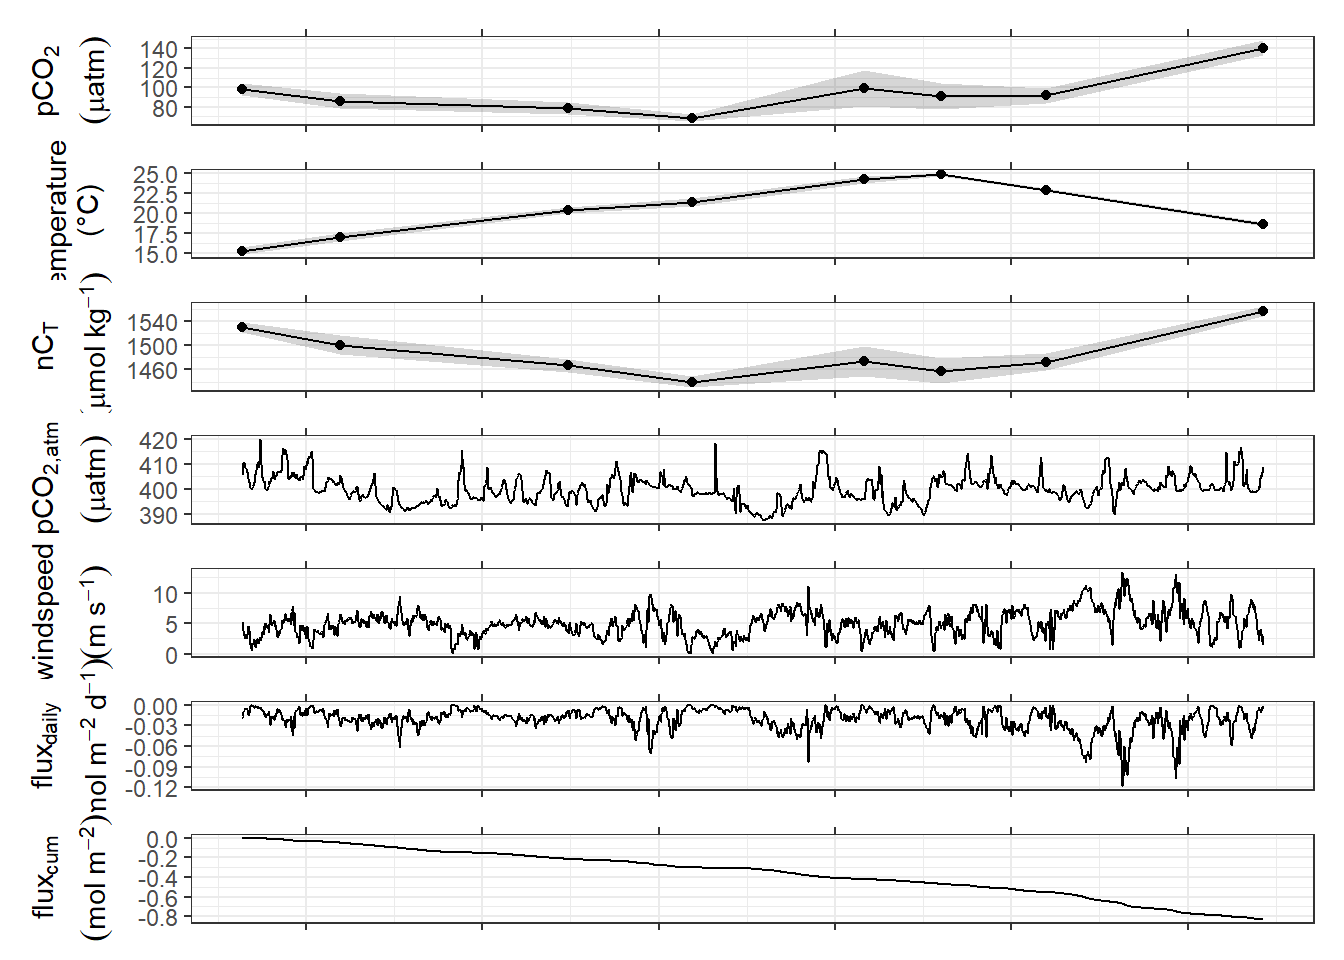
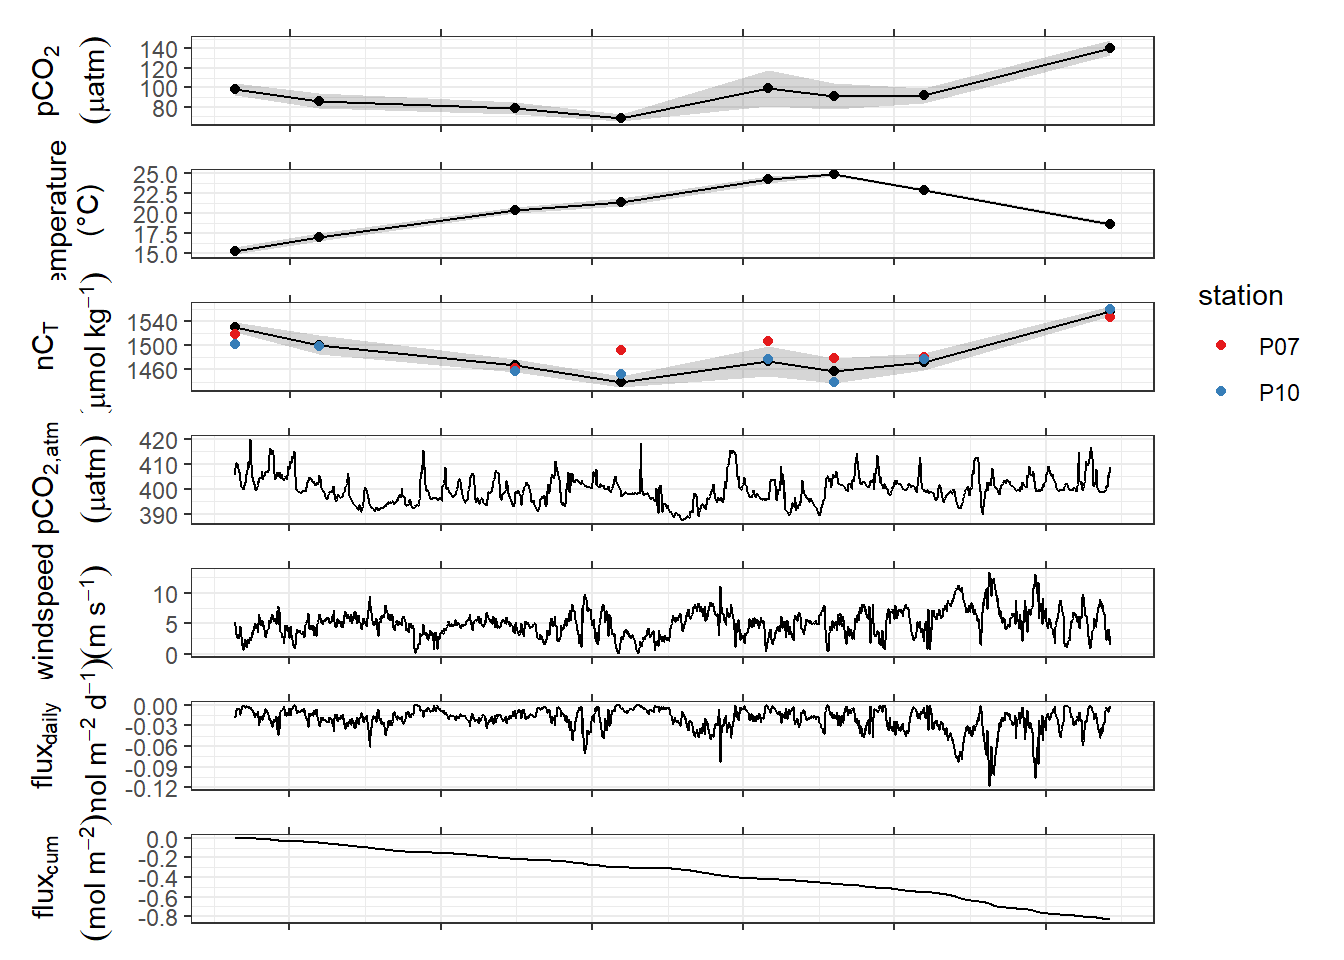
Build site.

diff --git a/docs/CT_dynamics.html b/docs/CT_dynamics.html
@@ -555,16 +555,16 @@ This reproducible <a href="http://rmarkdown.rstudio.com">R Markdown</a> analysis
 <div class="panel panel-default">
 <div class="panel-heading">
 <p class="panel-title">
-<a data-toggle="collapse" data-parent="#workflowr-checks" href="#strongRepositoryversionstrongahrefhttpsgithubcomjensdanielmuellerBloomSailtree72f9a8690b3f9e2ef20de96bc1fc2acbff171e5etargetblank72f9a86a"> <span class="glyphicon glyphicon-ok text-success" aria-hidden="true"></span> <strong>Repository version:</strong> <a href="https://github.com/jens-daniel-mueller/BloomSail/tree/72f9a8690b3f9e2ef20de96bc1fc2acbff171e5e" target="_blank">72f9a86</a> </a>
+<a data-toggle="collapse" data-parent="#workflowr-checks" href="#strongRepositoryversionstrongahrefhttpsgithubcomjensdanielmuellerBloomSailtreee07781a06c90b83d693e91ec008c72bbd1e6d5e0targetblanke07781aa"> <span class="glyphicon glyphicon-ok text-success" aria-hidden="true"></span> <strong>Repository version:</strong> <a href="https://github.com/jens-daniel-mueller/BloomSail/tree/e07781a06c90b83d693e91ec008c72bbd1e6d5e0" target="_blank">e07781a</a> </a>
 </p>
 </div>
[2 lines of base64/hex data omitted]
 <div class="panel-body">
 <p>
 Great! You are using Git for version control. Tracking code development and connecting the code version to the results is critical for reproducibility.
 </p>
 <p>
-The results in this page were generated with repository version <a href="https://github.com/jens-daniel-mueller/BloomSail/tree/72f9a8690b3f9e2ef20de96bc1fc2acbff171e5e" target="_blank">72f9a86</a>. See the <em>Past versions</em> tab to see a history of the changes made to the R Markdown and HTML files.
+The results in this page were generated with repository version <a href="https://github.com/jens-daniel-mueller/BloomSail/tree/e07781a06c90b83d693e91ec008c72bbd1e6d5e0" target="_blank">e07781a</a>. See the <em>Past versions</em> tab to see a history of the changes made to the R Markdown and HTML files.
 </p>
 <p>
 Note that you need to be careful to ensure that all relevant files for the analysis have been committed to Git prior to generating the results (you can use <code>wflow_publish</code> or <code>wflow_git_commit</code>). workflowr only checks the R Markdown file, but you know if there are other scripts or data files that it depends on. Below is the status of the Git repository when the results were generated:
@@ -621,6 +621,40 @@ Message
 </tr>
 </thead>
 <tbody>
+<tr>
+<td>
+Rmd
+</td>
+<td>
+<a href="https://github.com/jens-daniel-mueller/BloomSail/blob/e07781a06c90b83d693e91ec008c72bbd1e6d5e0/analysis/CT_dynamics.Rmd" target="_blank">e07781a</a>
+</td>
+<td>
+jens-daniel-mueller
+</td>
+<td>
+2020-04-24
+</td>
+<td>
+discrete surface CT in timeseries
+</td>
+</tr>
+<tr>
+<td>
+html
+</td>
+<td>
+<a href="https://rawcdn.githack.com/jens-daniel-mueller/BloomSail/a0756350c7b770a766fd6287b57ef467fcb64b49/docs/CT_dynamics.html" target="_blank">a075635</a>
+</td>
+<td>
+jens-daniel-mueller
+</td>
+<td>
+2020-04-24
+</td>
+<td>
+Build site.
+</td>
+</tr>
 <tr>
 <td>
 Rmd
@@ -2879,7 +2913,7 @@ sal_mean</code></pre>
           sal = sal_mean) %&gt;% 
   write_csv(here::here(&quot;Data/_summarized_data_files&quot;, &quot;tb_fix.csv&quot;))
 
-rm(tb, tb_surface)</code></pre>
+rm(tb)</code></pre>
 </div>
 </div>
 <div id="ct-profiles" class="section level1">
@@ -2898,7 +2932,7 @@ ts_profiles &lt;- ts_profiles %&gt;%
                    S=sal_mean, T=tem, P=dep/10, k1k2=&quot;m10&quot;, kf=&quot;dg&quot;, ks=&quot;d&quot;,
                    gas=&quot;insitu&quot;)[,16]*1e6)
 
-rm(sal_mean, AT_mean)
+rm(sal_mean)
 
 ts_profiles %&gt;% 
   write_csv(here::here(&quot;Data/_merged_data_files&quot;, &quot;ts_profiles.csv&quot;))</code></pre>
@@ -3803,13 +3837,17 @@ p_tem_surf &lt;- ts_profiles_surface_long_ID %&gt;%
   theme(axis.title.x = element_blank(),
         axis.text.x = element_blank())
 
-p_CT_surf &lt;- ts_profiles_surface_long_ID %&gt;%
+p_CT_surf &lt;-
+ts_profiles_surface_long_ID %&gt;%
   filter(var == &quot;CT&quot;) %&gt;% 
-  ggplot(aes(x=date_time))+
-  geom_ribbon(aes(ymin=mean-sd, ymax=mean+sd), alpha=0.2)+
-  geom_path(aes(y=mean))+
-  geom_point(aes(y=mean))+
+  ggplot()+
+  geom_ribbon(aes(x=date_time, ymin=mean-sd, ymax=mean+sd), alpha=0.2)+
+  geom_path(aes(x=date_time, y=mean))+
+  geom_point(aes(x=date_time, y=mean))+
+  geom_point(data = tb_surface %&gt;% filter(var == &quot;CT_AT_ratio&quot;),
+             aes(date_time_ID, value*AT_mean, col=station)) +
   scale_fill_discrete(guide=FALSE)+
+  scale_color_brewer(palette = &quot;Set1&quot;)+
   scale_x_datetime(date_breaks = &quot;week&quot;,
                    sec.axis = dup_axis())+
   labs(y = expression(atop(nC[T],
